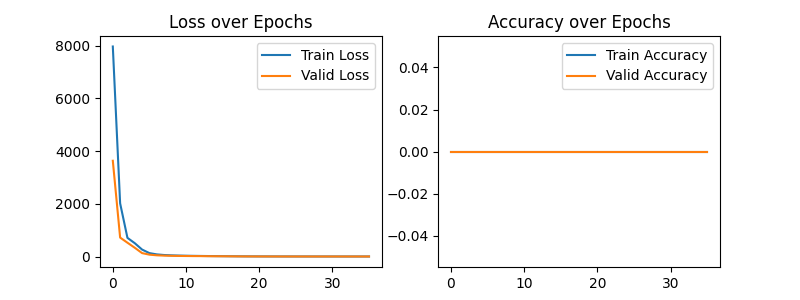
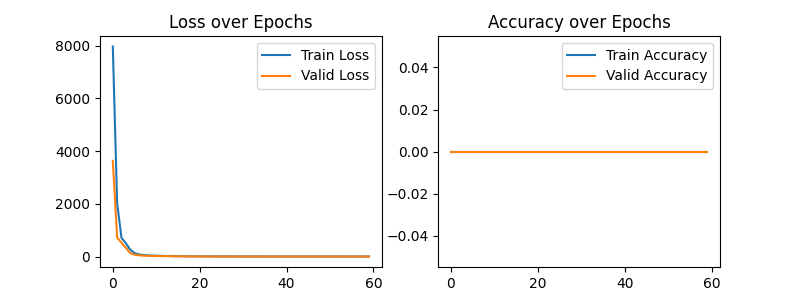
Init L1 model. Training on 1000 data of the robot operation with a radius of 100 mm. The radius of the working area is 50 mm and the rotation angle limit is [10, 170]. The MSE on the test data set is 0.33.

diff --git a/rpr/models/L1/fit.py b/rpr/models/L1/fit.py
@@ -44,6 +44,8 @@ trainer = ModelTrainer(
     device=device,
     model_name=name,
     save_path=rf"rpr\models\{name}",
+    lr_patience=5, lr_threshold=1e-3, 
+    stop_delta=0.075, stop_patience=10
 )
 trainer.fit(
     train_data=(X_train, y_train),
